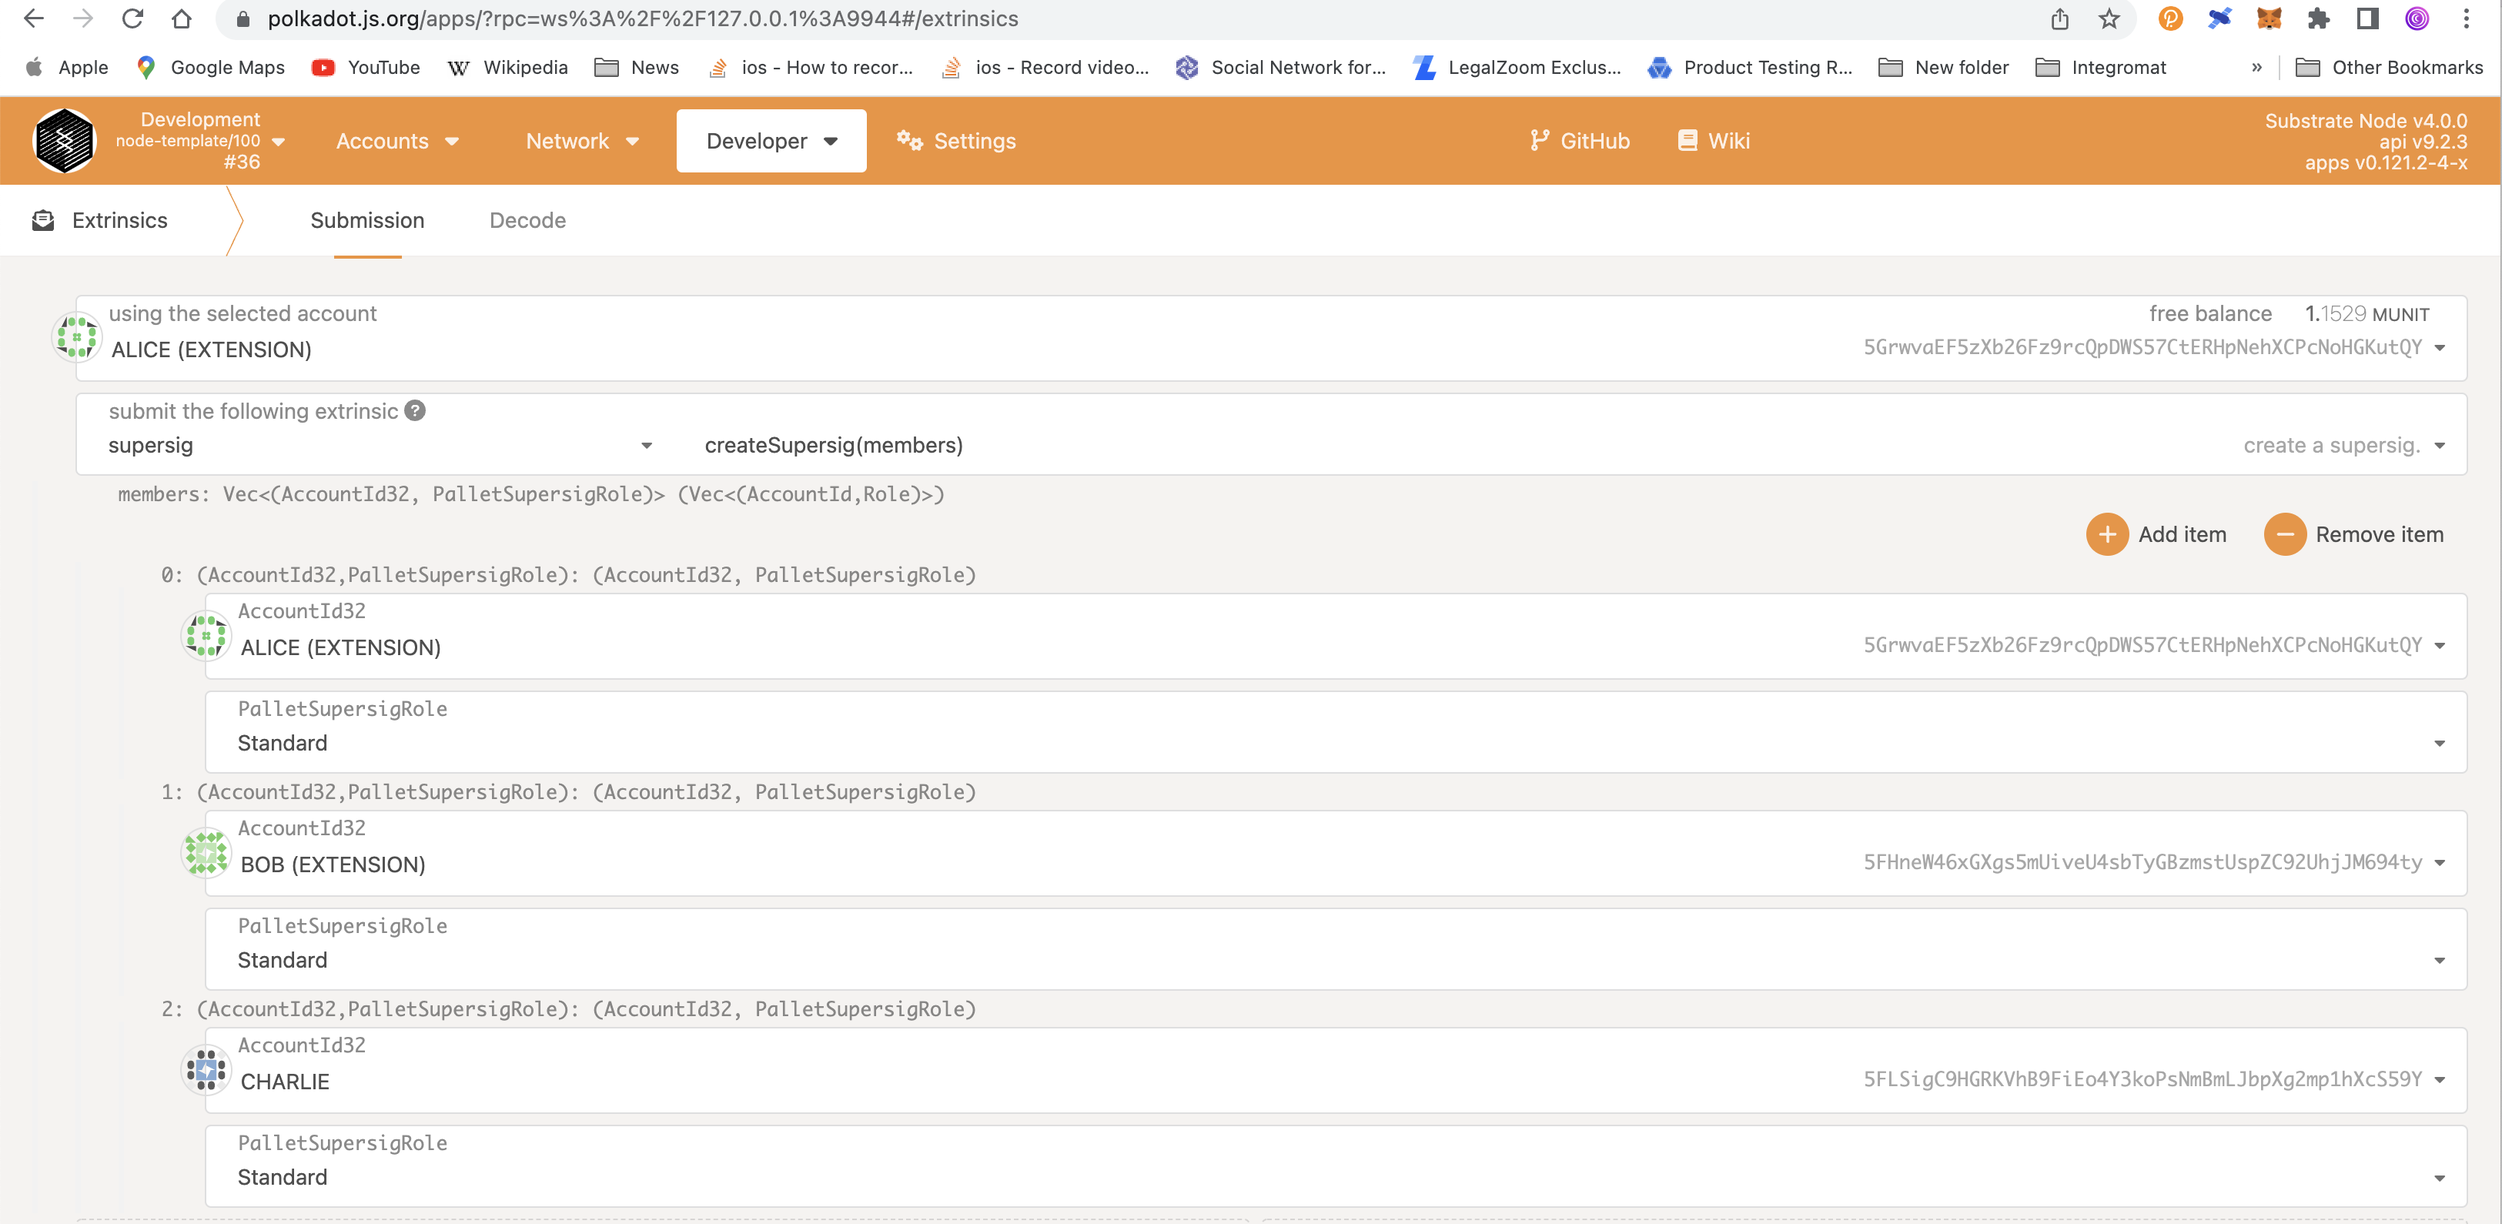
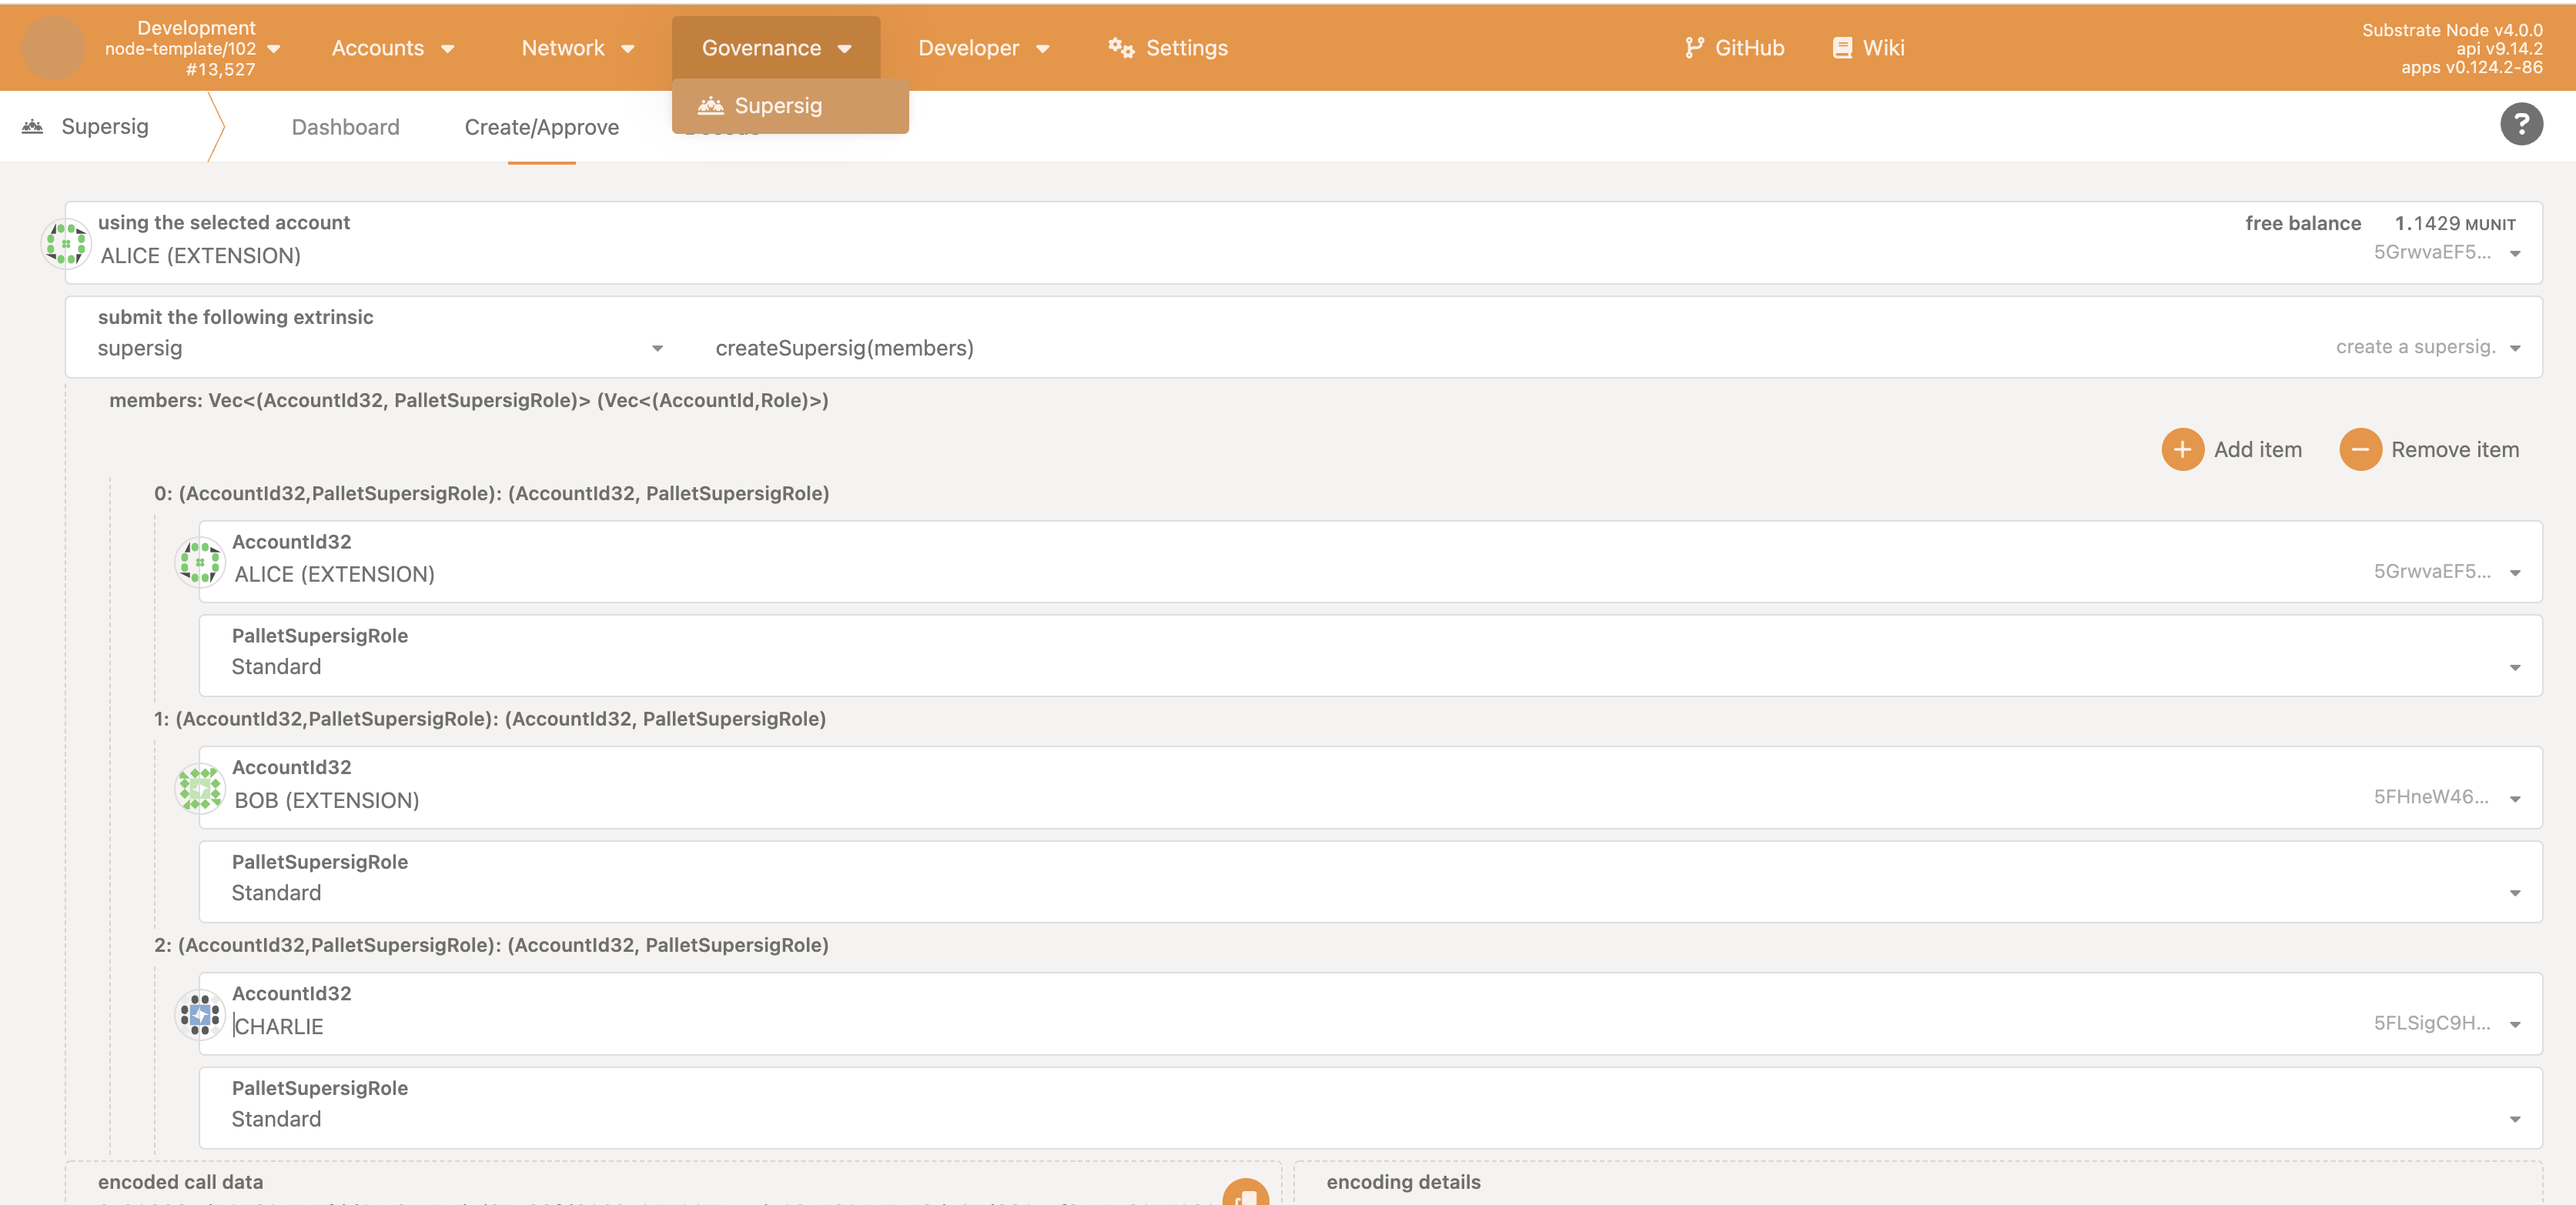
updates to supersig

diff --git a/docs/Supersig/supersig-tutorial.md b/docs/Supersig/supersig-tutorial.md
@@ -4,6 +4,12 @@ sidebar_position: 3
 
 # Supersig Tutorial
 
+:::info Walk Through Blog Post
+
+Follow a blog post guide about the quick set up of a substrate node template containing supersig, and polkadot-js apps fork [here](https://decentration.medium.com/setup-for-running-and-testing-supersig-m3-bc1ddfc25f43).
+
+:::
+
 In this tutorial you require a node-template with supersig pallet (and rpc functions) added.
 
 Repo: [substrate-supersig-template](https://github.com/decentration/substrate-supersig-template.git)
@@ -15,34 +21,48 @@ Repo: [substrate-supersig-template](https://github.com/decentration/substrate-su
 
 
 
+
 ## Create a supersig account
 
-Go to `Developer > Extrinsics > supersig > createSupersig(members)`
+Go to `Governance > Supersig > Create/Approve > supersig > createSupersig(members)`
+
+_Alternatively Go to `Developer > Extrinsics > supersig > createSupersig(members)`_
 
 ![createSupersig](/img/screenshots/createSupersig.png)
 _Notice how if you are the creator of the supersig, you must also add yourself as a member._ 
 
-## Save Supersig Address (and fund it)
+## Name the Supersig Address (and fund it)
 
 ![SupersigCreated](/img/screenshots/SupersigCreated.png)
-_Copy the address from event logs and add it as a contact in your address book._
 
-- Add the supersig to your address book 
+- Give the supersig a name.
 - Fund the supersig account from any account that has funds. 
+
+:::info Register your Supersig's identity with registrar
+
+If the blockchain you are creating your supersig has the identity pallet (like Kabocha) then you can make a proposal to register your supersig to have an identity so it becomes a known entity. 
+
+:::
 
 
 ## Make a call from your Supersig
 
-Now that your supersig is funded and has members, you can create a call that needs a simpleMajority to be executed.
-
-Go to `Developer > Extrinsics > supersig > submitCall(supersigAccount, call)`
+Now that your supersig is funded and has members, you can create a proposal. Thereafter the members of the supersig can vote for it.  
 
 ![submitCall](/img/screenshots/submitCall.png)
-_create a call from any funded account. In this example we submit a call to send balance transfer of 500 to Ferdie. Reminder that you need to add the amount plus the number of decimals for your blockchain, in this case 12 zeroes._
 
+- You can click the _Propose_ button from the dashboard. 
+
+- Or you can go to `Governance > Supersig > Create/Approve > submitCall(supersigAccount, call)`
+
+:::note The Proposer is not automatically a Voter
+
+If you created a proposal you will also need to vote on it. Votes are not automatically counted by the proposer. 
+
+:::
 ## Members vote/sign transactions
 
-Go to `Developer > Extrinsics > supersig > approveCall(supersigAccount, callId)`
+Go to `Governance > Supersig > Dashboard > Vote`
 
 ![ApproveCall](/img/screenshots/ApproveCall.png)
 _A simpleMajority of members sign a call for the supersig account._ 

diff --git a/docs/foundation/initial-testimony.md b/docs/foundation/initial-testimony.md
@@ -4,45 +4,17 @@ sidebar_position: 3
 
 # Initial Member Record
 
+Link to record:
+
 _This page is a copy of the Initial Member Record Testimony. You can make the Testimony here._
 
-**Link to NFT timestamped document:** _link_
+**Link to NFT timestamped document:** 
 
-**Make Testimony:** _link_
-
-## Registration of your Initial Member Record with Kabocha
-
-**Initial Testimony to enter the Kabocha jurisdiction**
-
-You as a Human Being testify to be living, breathing, of sound mind and cognitive ability; 
-
-You Vow to stay in full Honour, Competence and act in Good Faith. 
-
-You Testify that there is no Intermediary that has any Authority between you and the Divine Creator of all Realms.  
-
-By entering the Kabocha jurisdiction you Testify to not be functioning in the Role, capacity, or title of a citizen, on-duty officer, on-duty government official, of any other Nation or Jurisdiction when entering Kabocha sovereign Network Public. 
-
-Any aforementioned Role, capacity or title from a different jurisdiction has no effect in the jurisdiction of the Kabocha Network Public. The jurisdiction where Kabocha resides is a superior jurisdiction to any other jurisdiction or society. 
-
-All matters shall be dealt with in the Kabocha jurisdiction under ucadian law. 
-
-Kabocha Network Public is a University True Trust under the law of Ucadia. 
-
-Ucadia is the canonical framework of Law where the True Trust is Granted.
-
-Kabocha Network Public is a Consent and Honour based system, with Intentions of Expanding Benevolent Consciousness and to Empower People from the shackles and Enslavement of the Rulers of the Inferior Systems we were forcibly born into without Consent. 
-
-The Kabocha Seed NFT in its Initial Form represents initial Temporary rights into the True Trust of Kabocha Sovereign Network Public. 
-
-By making this initial Testimony, making a nominal contribution to Kabocha in the form of Locking KSM in a “Crowdloan” and signing through the Kabocha portal, you are Assigned Initial Temporary Rights in the Kabocha Network Public. 
+[Timestamped on Singular](https://singular.app/collectibles/kusama/f2529946857380f250-KABORD/12008862-f2529946857380f250-KABORD-KABOCHA_INITIAL_MEMBERSHIP_TESTIMONY-00000001)
 
 
-_Other Kabocha Documents:_
+[Draft of record](https://docs.google.com/document/d/1fIGanzldRIvU98pAYTh4jKD2E-VcQ2mwAFB4_Wbqjh4/edit?usp=sharing)
 
-**Declaration of Sovereignty** 
 
-https://docs.google.com/document/d/1walucNdwPOKj9jegXaRPF-Jzh2iWjZJdb3FSmXQnLuE/edit#
-
-Kabocha Network Public True Trust Formation Records:
 
 

diff --git a/docs/intro/3-key-concepts.md b/docs/intro/3-key-concepts.md
@@ -4,6 +4,12 @@ sidebar_position: 3
 
 # Key Concepts
 
+## Blockchain
+We run a blockchain called Kabocha which is specifically a parachain connected to the Kusama relay network. We use the blockchain to enable users to collaborate and create permissionless organisations along with other decentralised tools stored on the chain. And by being connected to a wider network Kabocha is able to transact withother chains through[XCM](https://wiki.polkadot.network/docs/learn-xcm)
+
+## Supersig
+Like multisig but with superpowers. This are one of the tools being piloted on Kabocha. Learn more [here](https://wiki.kabocha.network/docs/Supersig/)
+
 ## Network Publics
 Network Publics are decentralised trusts that allow communities to instantiate their own sovereign realities. It further distils the cliched concept of Web 3 and  aims to provide a canvass for communities to build truly sovereign decentralised and localised (or non-proximal) systems, networks and societies. 
 
@@ -13,4 +19,6 @@ A Network Public is a decentralised trust that sits on its own sovereign blockch
 
 ## Publiks
 Network Publics have a resource of opinionated Substrate design templates known as _Publiks_, which has various versioned release that fit the varied requirements and needs of users.
+
+# Key Tools
 

diff --git a/docs/foundation/intro.md b/docs/foundation/intro.md
@@ -4,4 +4,4 @@ sidebar_position: 1
 
 # Intro
 
-As part of our core value, [Sovereignty](http://localhost:3000/docs/intro/our-values#sovereignty) to truly be free from the shackles of tyranny of the global system and doctrines of law, money and power, we need to build a new system with a sturdy foundation of claims, a bedrock of law that is separate to the authoritarian and centralised elements of the old system. Our key focus re-establishment of canonical law and jurisdiction. We are developing law, trusts and jurisdiction that is fit for digital and global world, and seeks to help us to truly build a parallel system from the ground up.  
+As part of our core value, [Jurisidctional sovereignty](/docs/intro/our-values#sovereignty) to truly be free from the shackles of tyranny of the global system and doctrines of law, money and power, we need to build a new system with a sturdy foundation of claims, a bedrock of law that is separate to the authoritarian and centralised elements of the old system. Our key focus re-establishment of canonical law and jurisdiction. We are developing law, trusts and jurisdiction that is fit for digital and global world, and seeks to help us to truly build a parallel system from the ground up.  

diff --git a/docs/intro/2-our-values.md b/docs/intro/2-our-values.md
@@ -37,7 +37,3 @@ To really succeed we must really comprehend what we are facing and the root caus
 ## Education
 We are improving people’s learning outcomes by collaborating with Substrate Development Hub. 
 Rather than outsourcing the most expensive stars (kind of mercenary) who may not necessarily feel connected to the project, we are giving people an opportunity for live early experience, to people who feel connected. Part of our filtration process is inviting people to participate in community of knowledge and skill sharing, group learning, treasury proposals, and governance. Those who are interested to partake realise that they can self-assign a role for themselves given the reputation they have with the community. A dynamic and emergent leadership approach to organisation. 
-
-## Making the Privatised Public
-
-Looming dismantling of public services across the world with Public Private Partnerships

diff --git a/docs/Supersig/rpc.md b/docs/Supersig/rpc.md
@@ -47,3 +47,8 @@ Result:
   "id":1
 } //Alice, Bob and Charlie's accounts related to Supersig[0]
 ```
+## Use RPC functions for your own chain
+
+- Fork a node template containing `pallet_supersig` and RPC functions [here](https://github.com/decentration/substrate-supersig-template)
+- View the RPC section of the pallet [here](https://github.com/kabocha-network/pallet_supersig/tree/polkadot-v0.9.28)
+- See how the RPC functions are added to the runtime [here](https://github.com/decentration/substrate-supersig-template/blob/6fbce881471ef6b5730bb8bf4b68f2ee20f58025/runtime/src/lib.rs#L518)

diff --git a/docs/Supersig/introduction.md b/docs/Supersig/introduction.md
@@ -4,7 +4,7 @@ sidebar_position: 1
 
 # Introduction
 
-Supersig is like multisig but with some superpowers. It is designed to be can be fit for more versatile governance of permissionless collectives. The simple feature improvements from using multisig are: 
+Supersig is like multisig but with some extra superpowers. It is designed to be fit for more versatile governance of permissionless collectives. The simple feature improvements from using multisig are: 
 
 - **Add/remove** members; 
 - **simpleMajority threshold** instead of fixed threshold; 

diff --git a/docs/kabocha-docs/intro.md b/docs/kabocha-docs/intro.md
@@ -6,10 +6,9 @@ sidebar_position: 2
 
 **Repo**: https://github.com/kabocha-network/parachain 
 
-**Branch**: https://github.com/kabocha-network/parachain/tree/kab-release-v0.1.6
+**Branch**: https://github.com/kabocha-network/parachain/tree/kab-release-v0.2.5-new
 
 **Genesis Proposal**: https://gov.edgewa.re/discussion/2363-kabocha-kab-a-kusama-parachain-project-by-edgeware
-
 
 Kabocha parachain is the first part of the process of our multi-chain "network plan". 
 

diff --git a/docs/Crowdloan/crowdloan.md b/docs/Crowdloan/crowdloan.md
@@ -4,4 +4,4 @@ sidebar_position: 1
 
 # Key Info
 
-Here is some key information about the Kabocha [crowdloan](https://crowdloan.kabocha.network/) and [FAQ](https://crowdloan.kabocha.network/#crowdloan-cap).
+Kabocha completed its crowdloan and gained a 48 week lease on Kusama. You can view the info [here](https://polkadot.js.org/apps/?rpc=wss%3A%2F%2Fkusama.api.onfinality.io%2Fpublic-ws#/parachains/crowdloan).

diff --git a/docs/Supersig/supersig-ui.md b/docs/Supersig/supersig-ui.md
@@ -4,6 +4,6 @@ sidebar_position: 4
 
 # Supersig User Interface
 
-![Supersig UI M2 completion](/img/screenshots/supersig-ui-m2.png)
+![Supersig UI](/img/screenshots/supersig-ui-m2.png)
 
-You can view the supersig interface via our polkadot.js UI fork https://apps.decentration.org
+You can use the supersig interface via our polkadot.js UI fork https://apps.decentration.org
